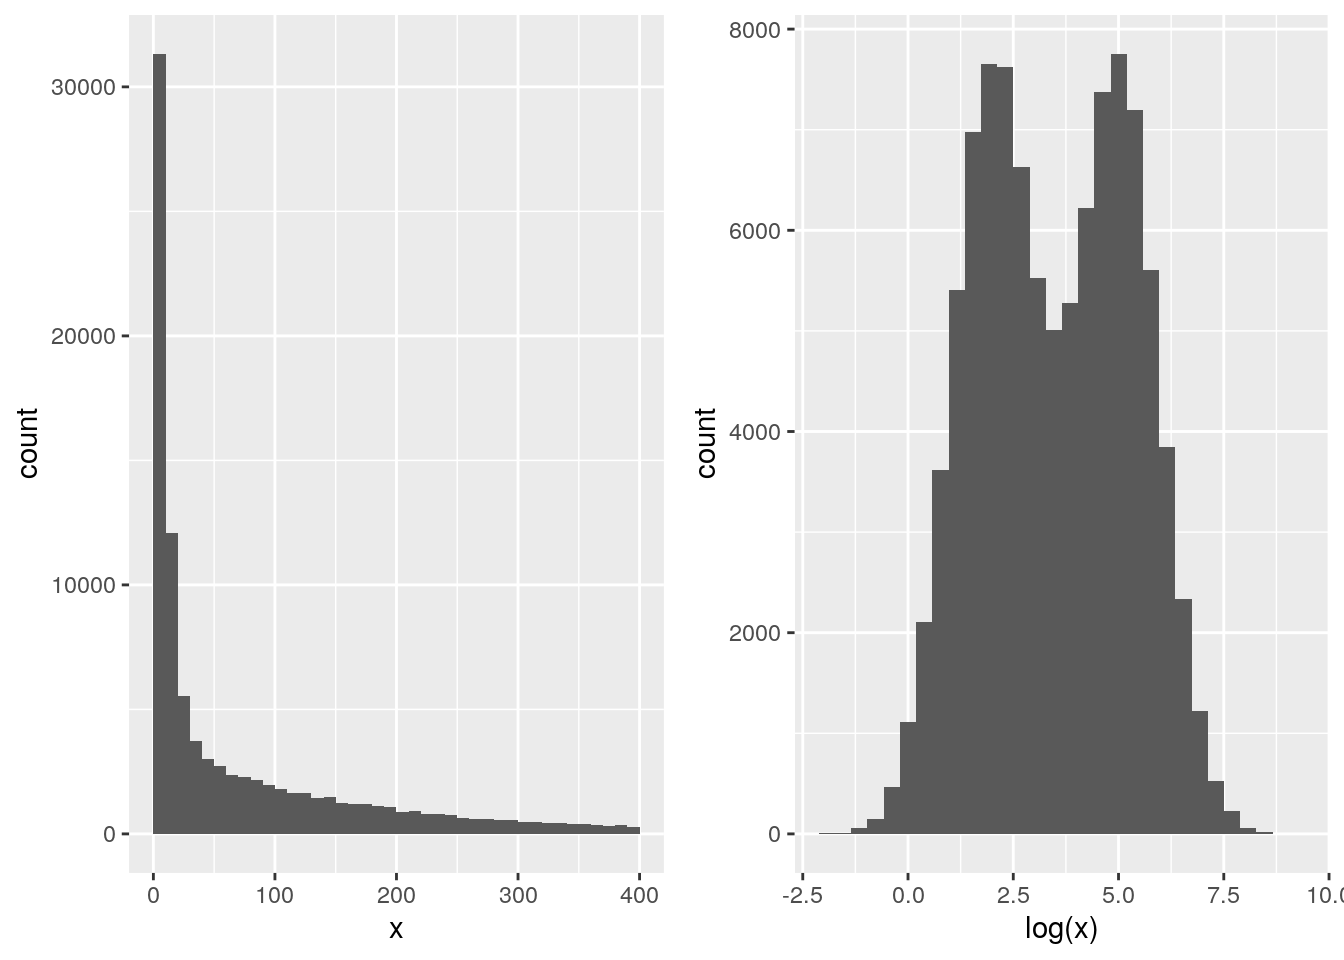
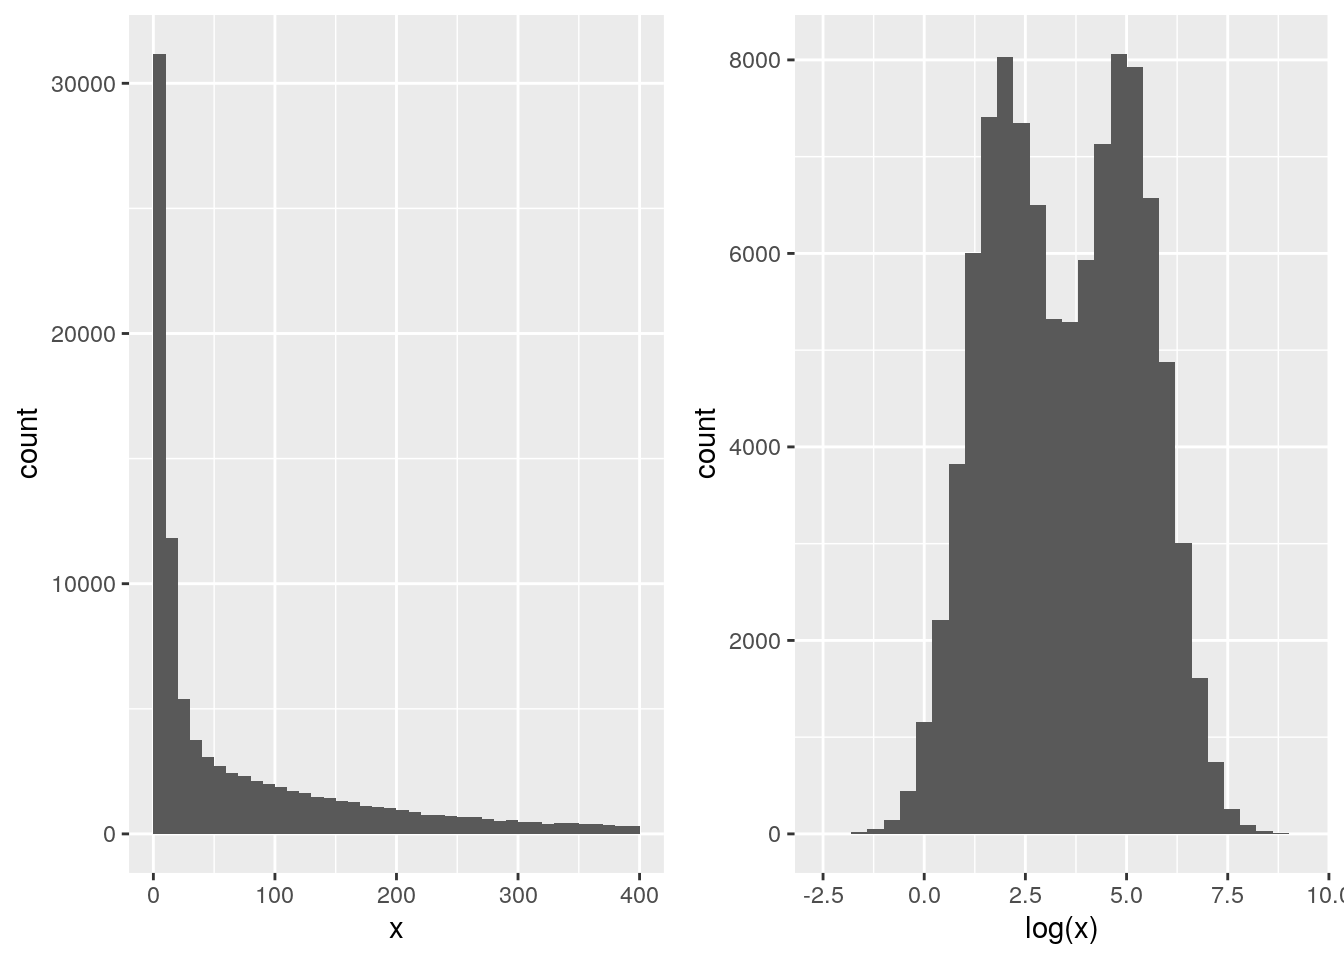
add dendro footnote

diff --git a/docs/sec-ul.html b/docs/sec-ul.html
@@ -15,7 +15,7 @@
 
 <meta name="author" content="Laurent Gatto" />
 
-<meta name="date" content="2019-11-23" />
+<meta name="date" content="2019-11-25" />
 
 <script type="text/x-mathjax-config">
 MathJax.Hub.Config({
@@ -520,7 +520,7 @@ Figure 9.10: Hierarchical clustering: initialisation (left) and colour-coded res
 </p>
 <img src="WSBIM1322_files/figure-html/hcldata-1.png" alt="Hierarchical clustering: initialisation (left) and colour-coded results after iteration (right)." width="1152">
 </div>
-<p>The results of hierarchical clustering are typically visualised along a <strong>dendrogram</strong>, where the distance between the clusters is proportional to the branch lengths.</p>
+<p>The results of hierarchical clustering are typically visualised along a <strong>dendrogram</strong><label for="tufte-sn-13" class="margin-toggle sidenote-number">13</label><input type="checkbox" id="tufte-sn-13" class="margin-toggle"><span class="sidenote"><span class="sidenote-number">13</span> Note that dendrograms, or trees in general, are used in evolutionary biology to visualise the evolutionary history of taxa. In this course, we use them to represent similarities (based on distances) and don’t assess any evolutionary relations between features or samples.</span>, where the distance between the clusters is proportional to the branch lengths.</p>
 <div class="figure">
 <span id="fig:hcldendro"></span>
 <p class="caption marginnote shownote">
@@ -800,7 +800,7 @@ hcl2 &lt;-<span class="st"> </span><span class="kw">hclust</span>(<span class="k
 <a href="sec-sl.html"><button class="btn btn-default">Next</button></a>
 </p>
 <p class="build-date">Page built: 
-2019-11-23
+2019-11-25
 </p>
 </div>
 </div>

diff --git a/docs/sec-vis.html b/docs/sec-vis.html
@@ -15,7 +15,7 @@
 
 <meta name="author" content="Laurent Gatto" />
 
-<meta name="date" content="2019-11-23" />
+<meta name="date" content="2019-11-25" />
 
 <script type="text/x-mathjax-config">
 MathJax.Hub.Config({
@@ -720,7 +720,7 @@ p1 &lt;-<span class="st">  </span><span class="kw">ggplot</span>(sim, <span clas
 p2 &lt;-<span class="st">  </span><span class="kw">ggplot</span>(sim, <span class="kw">aes</span>(<span class="kw">log</span>(x))) <span class="op">+</span>
 <span class="st">    </span><span class="kw">geom_histogram</span>(<span class="dt">bins =</span> <span class="dv">30</span>)
 p1 <span class="op">+</span><span class="st"> </span>p2</code></pre></div>
-<pre><code>## Warning: Removed 7944 rows containing non-finite values (stat_bin).</code></pre>
+<pre><code>## Warning: Removed 8100 rows containing non-finite values (stat_bin).</code></pre>
 <div class="figure">
 <span id="fig:sim"></span>
 <p class="caption marginnote shownote">
@@ -937,7 +937,7 @@ scp2 &lt;-<span class="st"> </span>scp <span class="op">+</span><span class="st"
 <a href="sec-obj.html"><button class="btn btn-default">Next</button></a>
 </p>
 <p class="build-date">Page built: 
-2019-11-23
+2019-11-25
 </p>
 </div>
 </div>

diff --git a/docs/index.html b/docs/index.html
@@ -15,7 +15,7 @@
 
 <meta name="author" content="Laurent Gatto" />
 
-<meta name="date" content="2019-11-23" />
+<meta name="date" content="2019-11-25" />
 
 <script type="text/x-mathjax-config">
 MathJax.Hub.Config({
@@ -197,7 +197,7 @@ devtools<span class="op">::</span><span class="kw">install_github</span>(<span c
 <a href="sec-refresher.html"><button class="btn btn-default">Next</button></a>
 </p>
 <p class="build-date">Page built: 
-2019-11-23
+2019-11-25
 </p>
 </div>
 </div>

diff --git a/docs/sec-si.html b/docs/sec-si.html
@@ -15,7 +15,7 @@
 
 <meta name="author" content="Laurent Gatto" />
 
-<meta name="date" content="2019-11-23" />
+<meta name="date" content="2019-11-25" />
 
 <script type="text/x-mathjax-config">
 MathJax.Hub.Config({
@@ -267,7 +267,7 @@ BiocManager<span class="op">::</span><span class="kw">install</span>(pkgs)</code
 <a href="sec-ccl.html"><button class="btn btn-default">Previous</button></a>
 </p>
 <p class="build-date">Page built: 
-2019-11-23
+2019-11-25
 </p>
 </div>
 </div>

diff --git a/docs/sec-sl.html b/docs/sec-sl.html
@@ -15,7 +15,7 @@
 
 <meta name="author" content="Laurent Gatto" />
 
-<meta name="date" content="2019-11-23" />
+<meta name="date" content="2019-11-25" />
 
 <script type="text/x-mathjax-config">
 MathJax.Hub.Config({
@@ -140,7 +140,7 @@ code > span.in { color: #60a0b0; font-weight: bold; font-style: italic; } /* Inf
 <a href="sec-biovis.html"><button class="btn btn-default">Next</button></a>
 </p>
 <p class="build-date">Page built: 
-2019-11-23
+2019-11-25
 </p>
 </div>
 </div>

diff --git a/docs/sec-refresher.html b/docs/sec-refresher.html
@@ -15,7 +15,7 @@
 
 <meta name="author" content="Laurent Gatto" />
 
-<meta name="date" content="2019-11-23" />
+<meta name="date" content="2019-11-25" />
 
 <script type="text/x-mathjax-config">
 MathJax.Hub.Config({
@@ -274,7 +274,7 @@ code > span.in { color: #60a0b0; font-weight: bold; font-style: italic; } /* Inf
 <a href="sec-vis.html"><button class="btn btn-default">Next</button></a>
 </p>
 <p class="build-date">Page built: 
-2019-11-23
+2019-11-25
 </p>
 </div>
 </div>

diff --git a/docs/sec-mlintro.html b/docs/sec-mlintro.html
@@ -15,7 +15,7 @@
 
 <meta name="author" content="Laurent Gatto" />
 
-<meta name="date" content="2019-11-23" />
+<meta name="date" content="2019-11-25" />
 
 <script type="text/x-mathjax-config">
 MathJax.Hub.Config({
@@ -588,7 +588,7 @@ Figure 6.9: A dataset of 100 labelled and three new, unlalled, points.
 <a href="sec-testing.html"><button class="btn btn-default">Next</button></a>
 </p>
 <p class="build-date">Page built: 
-2019-11-23
+2019-11-25
 </p>
 </div>
 </div>

diff --git a/docs/sec-biovis.html b/docs/sec-biovis.html
@@ -15,7 +15,7 @@
 
 <meta name="author" content="Laurent Gatto" />
 
-<meta name="date" content="2019-11-23" />
+<meta name="date" content="2019-11-25" />
 
 <script type="text/x-mathjax-config">
 MathJax.Hub.Config({
@@ -349,7 +349,7 @@ x &lt;-<span class="st"> </span><span class="kw">fromList</span>(x)
 <a href="sec-ccl.html"><button class="btn btn-default">Next</button></a>
 </p>
 <p class="build-date">Page built: 
-2019-11-23
+2019-11-25
 </p>
 </div>
 </div>

diff --git a/docs/sec-ccl.html b/docs/sec-ccl.html
@@ -15,7 +15,7 @@
 
 <meta name="author" content="Laurent Gatto" />
 
-<meta name="date" content="2019-11-23" />
+<meta name="date" content="2019-11-25" />
 
 <script type="text/x-mathjax-config">
 MathJax.Hub.Config({
@@ -175,7 +175,7 @@ Figure 12.4: Classification of samples (top) or features (bottom).
 <a href="sec-si.html"><button class="btn btn-default">Next</button></a>
 </p>
 <p class="build-date">Page built: 
-2019-11-23
+2019-11-25
 </p>
 </div>
 </div>

diff --git a/docs/sec-dimred.html b/docs/sec-dimred.html
@@ -15,7 +15,7 @@
 
 <meta name="author" content="Laurent Gatto" />
 
-<meta name="date" content="2019-11-23" />
+<meta name="date" content="2019-11-25" />
 
 <script type="text/x-mathjax-config">
 MathJax.Hub.Config({
@@ -1045,7 +1045,7 @@ Figure 8.23: Testing the effect of RNA sequencing kits 1 and 2.
 <a href="sec-ul.html"><button class="btn btn-default">Next</button></a>
 </p>
 <p class="build-date">Page built: 
-2019-11-23
+2019-11-25
 </p>
 </div>
 </div>

diff --git a/docs/sec-biostrings.html b/docs/sec-biostrings.html
@@ -15,7 +15,7 @@
 
 <meta name="author" content="Laurent Gatto" />
 
-<meta name="date" content="2019-11-23" />
+<meta name="date" content="2019-11-25" />
 
 <script type="text/x-mathjax-config">
 MathJax.Hub.Config({
@@ -768,7 +768,7 @@ Figure 4.1: GC content for chomosome 2L (10 - 11 Mb)
 <a href="sec-norm.html"><button class="btn btn-default">Next</button></a>
 </p>
 <p class="build-date">Page built: 
-2019-11-23
+2019-11-25
 </p>
 </div>
 </div>

diff --git a/docs/sec-norm.html b/docs/sec-norm.html
@@ -15,7 +15,7 @@
 
 <meta name="author" content="Laurent Gatto" />
 
-<meta name="date" content="2019-11-23" />
+<meta name="date" content="2019-11-25" />
 
 <script type="text/x-mathjax-config">
 MathJax.Hub.Config({
@@ -515,7 +515,7 @@ col_na</code></pre></div>
 <a href="sec-mlintro.html"><button class="btn btn-default">Next</button></a>
 </p>
 <p class="build-date">Page built: 
-2019-11-23
+2019-11-25
 </p>
 </div>
 </div>
